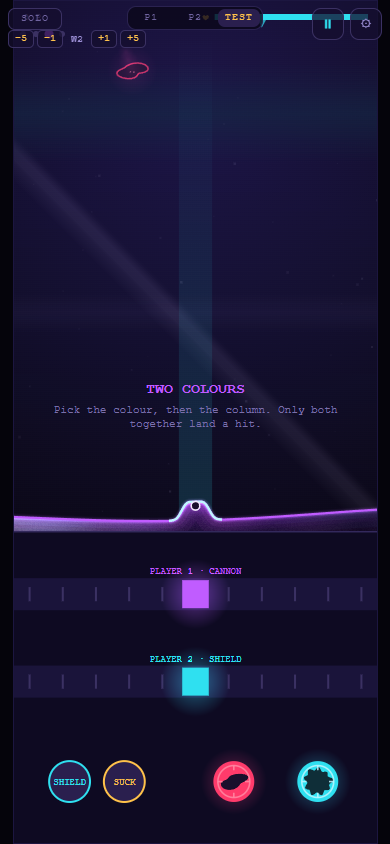
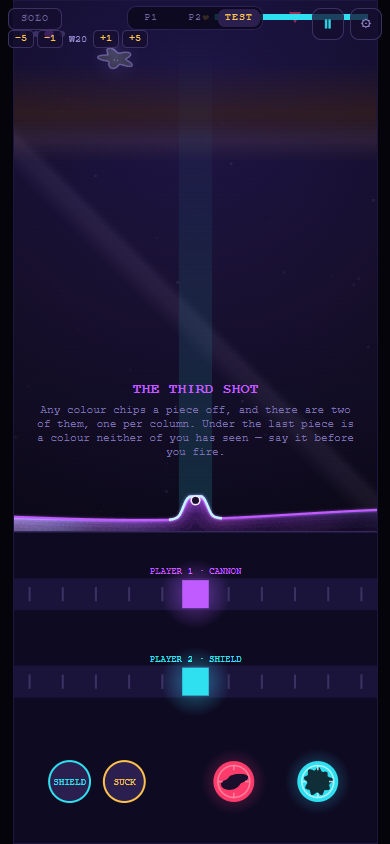
Frames resolves a wave name against the commit's own list, not today's
deriveWaveFromChecks and --wave now take the historical wave list, read via
a fresh checkout at the target sha, instead of the working tree's WAVES —
a wave inserted since a commit landed no longer shifts every later index.

Check: does bun run frames on an old commit now show the wave its check actually names

diff --git a/tools/frames/run.ts b/tools/frames/run.ts
@@ -45,7 +45,7 @@
 import { mkdir, mkdtemp, readdir, rm } from "node:fs/promises";
 import { tmpdir } from "node:os";
 import { dirname, join } from "node:path";
-import { WAVES } from "@neon-spore/content";
+import { pathToFileURL } from "node:url";
 import { findRestatedForCommit, parseRestated, type Restated } from "../checks/restated.js";
 import { checksIn } from "../checks/trailers.js";
 import { captureFrames, type FrameSpec } from "./capture.js";
@@ -293,6 +293,35 @@ async function readdirSafe(dir: string): Promise<string[]> {
 }
 
 /**
+ * The wave list as it stood at `rev`, read out of *that* commit's own
+ * `packages/content/src/waves.ts` — not the working tree's copy.
+ *
+ * `docs/queue.md`, "FRAMES PUTS THE WRONG WAVE IN THE PICTURE, AND SAYS THE
+ * RIGHT NAME WHILE IT DOES": a name only lived at the index it held in the
+ * tree that named it. `captureAt` already makes a scratch worktree and runs
+ * `bun install` in it to build the game at a historical commit; this makes
+ * the same kind of checkout to answer the name → index question inside it,
+ * so the answer and the build it feeds are never talking about two different
+ * lists. `bun install` is needed because `waves.ts` reaches `@neon-spore/sim`
+ * through `maze-rounds.ts`, and that import only resolves once the workspace
+ * link exists in this checkout's own `node_modules`.
+ */
+export async function waveNamesAt(rev: string): Promise<WaveName[]> {
+  const scratch = await mkdtemp(join(tmpdir(), "neon-spore-frames-waves-"));
+  await rm(scratch, { recursive: true, force: true }); // `worktree add` wants the path free
+  await git(["worktree", "add", "--detach", scratch, rev]);
+  try {
+    await run(["bun", "install"], scratch);
+    const url = pathToFileURL(join(scratch, "packages/content/src/waves.ts")).href;
+    const mod = (await import(url)) as { WAVES: readonly WaveName[] };
+    return mod.WAVES.map((w) => ({ name: w.name }));
+  } finally {
+    await git(["worktree", "remove", "--force", scratch]).catch(() => {});
+    await rm(scratch, { recursive: true, force: true }).catch(() => {});
+  }
+}
+
+/**
  * Resolves a commit's own `Check:` trailers — read straight off the commit,
  * not guessed from a filename — to whichever restated entries quote them,
  * and picks the first `where` among those that names an actual wave.
@@ -309,8 +338,17 @@ async function readdirSafe(dir: string): Promise<string[]> {
  * first already resolves); if none of them do, the first non-"unknown"
  * reason is reported so the refusal explains itself instead of just saying
  * "no wave".
+ *
+ * `waves` is the caller's to supply, and must be the list as it stood at
+ * `sha` — see `waveNamesAt` — not today's `WAVES`. A "name" resolution's
+ * `.index` is a position in whichever list is passed in, so passing the
+ * wrong one is exactly the fault `docs/queue.md`'s "FRAMES PUTS THE WRONG
+ * WAVE IN THE PICTURE" describes.
  */
-export async function deriveWaveFromChecks(sha: string): Promise<WaveResolution> {
+export async function deriveWaveFromChecks(
+  sha: string,
+  waves: readonly WaveName[],
+): Promise<WaveResolution> {
   const full = await git(["rev-parse", sha]).catch(() => null);
   if (!full) return { kind: "unknown", reason: `no commit found for ${sha}` };
   const body = await git(["log", "-1", "--format=%B", full]);
@@ -333,7 +371,7 @@ export async function deriveWaveFromChecks(sha: string): Promise<WaveResolution>
   let fallback: WaveResolution | null = null;
   for (const r of restated) {
     if (!r.where) continue;
-    const resolved = resolveWaveText(r.where, WAVES);
+    const resolved = resolveWaveText(r.where, waves);
     if (resolved.kind === "hud" || resolved.kind === "name") return resolved;
     if (!fallback) fallback = resolved;
   }
@@ -394,17 +432,24 @@ async function main(): Promise<void> {
   const out = outFlag === -1 ? join(root, "docs/checks/frames", sha) : (argv[outFlag + 1] ?? "");
   if (!out) throw new Error("--out needs a directory");
 
+  const parent = await git(["rev-parse", `${sha}^`]);
+  const full = await git(["rev-parse", sha]);
+
+  // The name → index answer belongs to `full`'s own tree, not the working
+  // tree's — a wave inserted since `full` shifts everything after it.
+  const historicalWaves = await waveNamesAt(full);
+
   const waveFlagIndex = argv.indexOf("--wave");
   let waveIndex: number;
   if (waveFlagIndex !== -1) {
     const value = argv[waveFlagIndex + 1];
     if (!value) throw new Error("--wave needs a number or a wave name");
-    waveIndex = resolveWaveFlag(value, WAVES);
+    waveIndex = resolveWaveFlag(value, historicalWaves);
     console.log(
-      `wave: ${value} → index ${waveIndex} (${WAVES[waveIndex]?.name ?? "beyond the authored waves"})`,
+      `wave: ${value} → index ${waveIndex} (${historicalWaves[waveIndex]?.name ?? "beyond the authored waves"})`,
     );
   } else {
-    const resolution = await deriveWaveFromChecks(sha);
+    const resolution = await deriveWaveFromChecks(sha, historicalWaves);
     if (resolution.kind === "director") {
       throw new Error(
         `${resolution.reason} — nothing to screenshot here. Pass --wave to point this at a wave instead.`,
@@ -414,7 +459,7 @@ async function main(): Promise<void> {
       throw new Error(`${resolution.reason} — pass --wave N or --wave "NAME" explicitly.`);
     }
     waveIndex = resolution.kind === "hud" ? resolution.hudNumber - 1 : resolution.index;
-    const name = WAVES[waveIndex]?.name ?? "beyond the authored waves";
+    const name = historicalWaves[waveIndex]?.name ?? "beyond the authored waves";
     console.log(`wave: ${resolution.reason} → index ${waveIndex} (${name})`);
   }
 
@@ -424,9 +469,6 @@ async function main(): Promise<void> {
     frames: flag("frames", 1),
     strideTicks: flag("stride", 4),
   };
-
-  const parent = await git(["rev-parse", `${sha}^`]);
-  const full = await git(["rev-parse", sha]);
 
   const scratchOut = await mkdtemp(join(tmpdir(), "neon-spore-frames-out-"));
   const start = Date.now();

diff --git a/tools/frames/test/wave.test.ts b/tools/frames/test/wave.test.ts
@@ -3,7 +3,13 @@ import { mkdtemp } from "node:fs/promises";
 import { tmpdir } from "node:os";
 import { join } from "node:path";
 import { WAVES } from "@neon-spore/content";
-import { deriveWaveFromChecks, framesIdentical, resolveWaveFlag, resolveWaveText } from "../run.js";
+import {
+  deriveWaveFromChecks,
+  framesIdentical,
+  resolveWaveFlag,
+  resolveWaveText,
+  waveNamesAt,
+} from "../run.js";
 
 /**
  * `docs/queue.md`, "A FRAME OF THE WRONG WAVE PROVES NOTHING" — three faults
@@ -108,26 +114,26 @@ describe("resolveWaveFlag", () => {
 
 describe("deriveWaveFromChecks", () => {
   it("resolves docs/checks/4e577db.md's `wave 21` the same way resolveWaveText does", async () => {
-    const r = await deriveWaveFromChecks("4e577db");
+    const r = await deriveWaveFromChecks("4e577db", WAVES);
     expect(r).toMatchObject({ kind: "hud", hudNumber: 21 });
   });
 
   it("resolves docs/checks/18036b0.md to THE THIRD SHOT by name", async () => {
-    const r = await deriveWaveFromChecks("18036b0");
+    const r = await deriveWaveFromChecks("18036b0", WAVES);
     expect(r).toMatchObject({ kind: "name", name: "THE THIRD SHOT" });
   });
 
   it("refuses docs/checks/00c0d87.md — a director-only where field", async () => {
-    const r = await deriveWaveFromChecks("00c0d87");
+    const r = await deriveWaveFromChecks("00c0d87", WAVES);
     expect(r.kind).toBe("director");
   });
 
   it("falls through 16efb33.md's first 'any wave' entry rather than its second, name-less one", async () => {
-    const r = await deriveWaveFromChecks("16efb33");
+    const r = await deriveWaveFromChecks("16efb33", WAVES);
     expect(r).toMatchObject({ kind: "hud", hudNumber: 1 });
   });
 
-  it("finds the restatement by trailer text for a commit whose file is named after a different, pre-rebase sha", async () => {
+  it("finds the restatement by trailer text for a commit whose file is named after a different, pre-rebase sha, and resolves the index against that commit's OWN wave list", async () => {
     // docs/queue.md, "THIRTY-ONE OF THIRTY-THREE CHECK FILES ARE NAMED AFTER
     // A COMMIT THAT NEVER LANDED" — 35d59d4 is on `main` right now; its
     // restatement was written before `bun run land` rebased it, and sits
@@ -135,13 +141,34 @@ describe("deriveWaveFromChecks", () => {
     // docs/checks/35d59d4.md finds nothing — this is the exact repro the
     // brief gives (`bun run frames 35d59d4`), and the fix is a join on the
     // trailer's own text, not on the filename.
-    const r = await deriveWaveFromChecks("35d59d4");
-    expect(r).toMatchObject({ kind: "name", name: "THE THIRD SHOT" });
+    //
+    // docs/queue.md, "FRAMES PUTS THE WRONG WAVE IN THE PICTURE, AND SAYS THE
+    // RIGHT NAME WHILE IT DOES" — this is the trap the brief warns about:
+    // every test above passes against today's `WAVES`, which is exactly the
+    // assumption being broken. At `35d59d4` there were 24 authored waves and
+    // THE THIRD SHOT sat at index 19; today there are 25 (THE MAZE was
+    // inserted ahead of it) and it sits at 20. Passing `WAVES` here would
+    // pass this test while reproducing the bug — the historical list from
+    // `waveNamesAt` is what makes the index assertion actually catch it.
+    const historical = await waveNamesAt("35d59d4");
+    expect(historical.length).toBe(24);
+    const r = await deriveWaveFromChecks("35d59d4", historical);
+    expect(r).toMatchObject({ kind: "name", name: "THE THIRD SHOT", index: 19 });
   });
 
   it("reports unknown for a sha with no docs/checks file", async () => {
-    const r = await deriveWaveFromChecks("0000000");
+    const r = await deriveWaveFromChecks("0000000", WAVES);
     expect(r.kind).toBe("unknown");
+  });
+});
+
+describe("waveNamesAt", () => {
+  it("reads today's WAVES from the working tree's own HEAD commit", async () => {
+    const head = await Bun.$`git rev-parse HEAD`
+      .cwd(join(import.meta.dir, "..", "..", ".."))
+      .text();
+    const names = await waveNamesAt(head.trim());
+    expect(names.map((w) => w.name)).toEqual(WAVES.map((w) => w.name));
   });
 });
 
